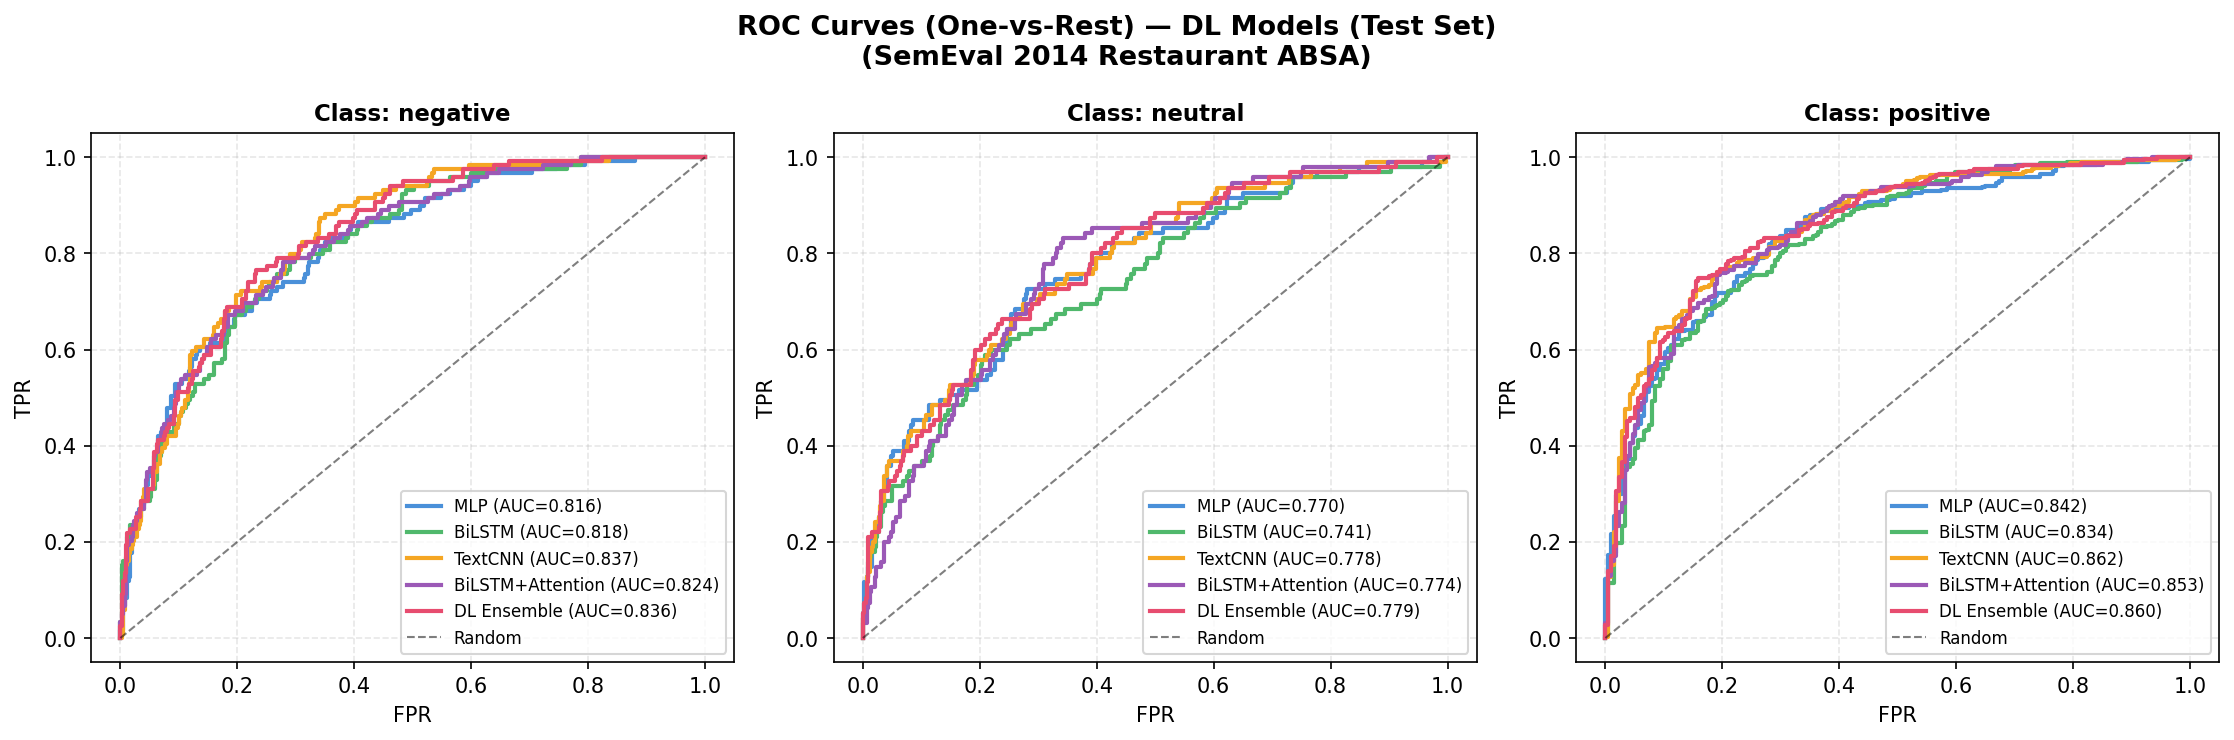
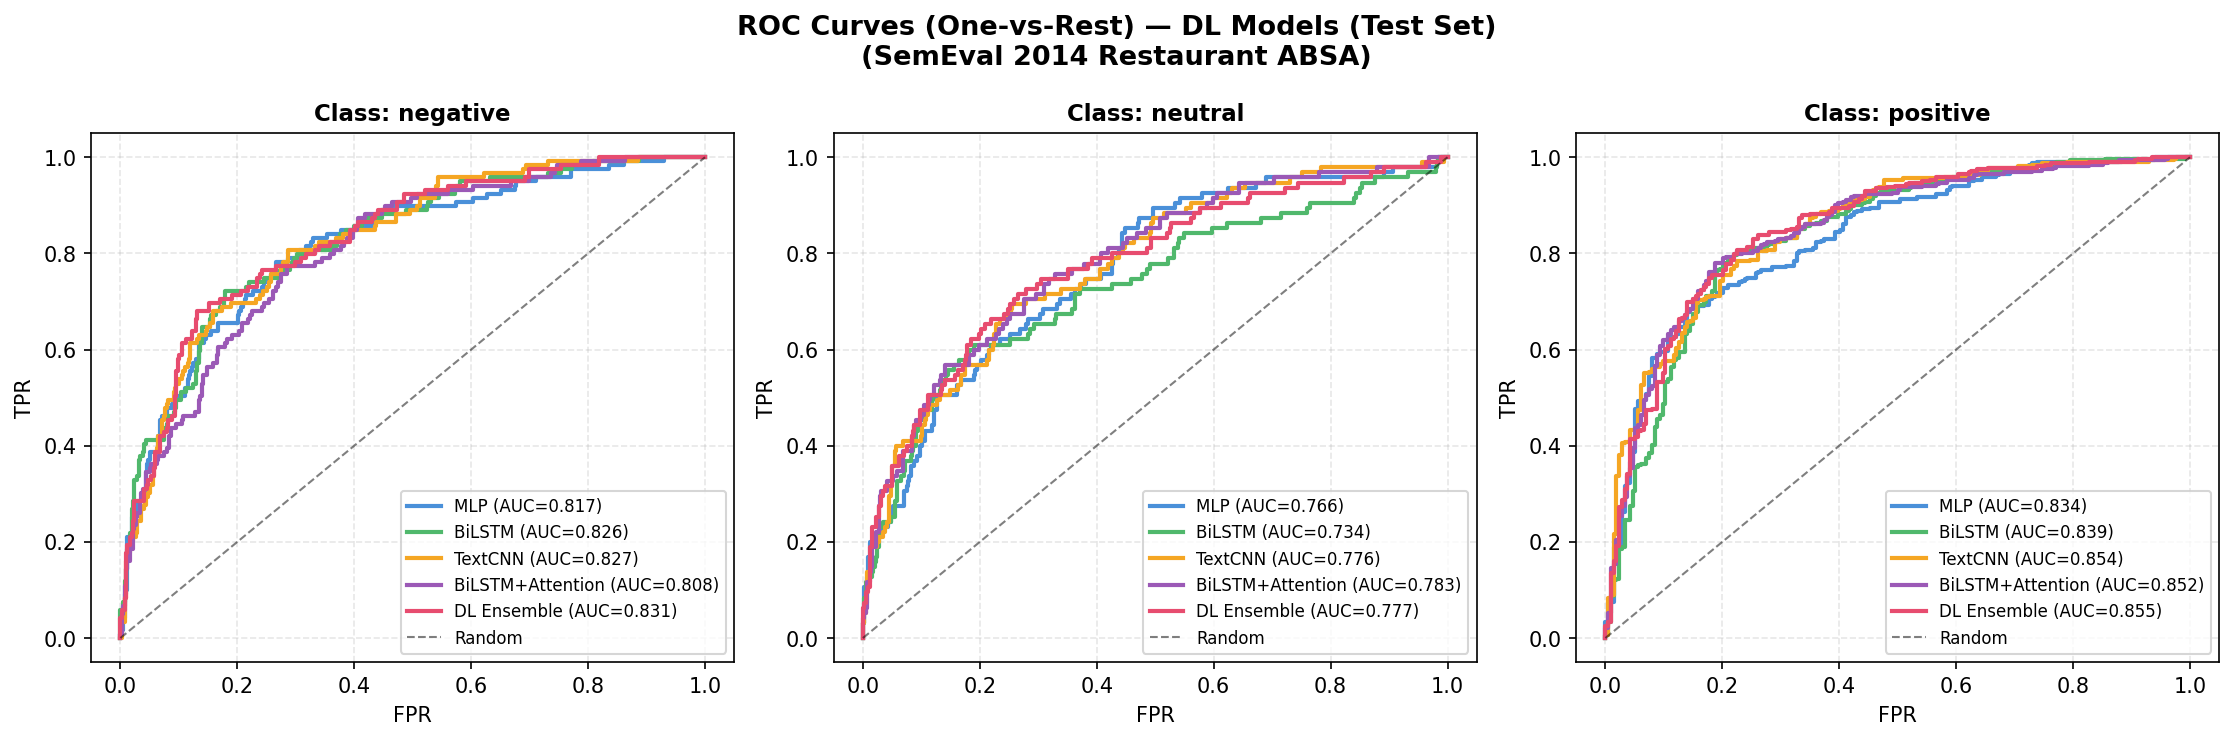
feat:fix sth

diff --git a/Tuan1/bai1/SemEval2014Restaurant.py b/Tuan1/bai1/SemEval2014Restaurant.py
@@ -21,7 +21,7 @@ import matplotlib.pyplot as plt
 import seaborn as sns
 
 from sklearn.feature_extraction.text import TfidfVectorizer
-from sklearn.preprocessing import LabelEncoder, label_binarize
+from sklearn.preprocessing import LabelEncoder, label_binarize, MinMaxScaler
 from sklearn.metrics import (
     accuracy_score, precision_score, recall_score, f1_score,
     roc_auc_score, roc_curve, auc,
@@ -126,29 +126,86 @@ plt.close()
 print("\n[OK] Da luu bieu do phan bo nhan → results/bai1/label_distribution.png")
 
 # =============================================================================
-# 3. TRÍCH XUẤT ĐẶC TRƯNG (TF-IDF)
+# 3. TRÍCH XUẤT ĐẶC TRƯNG (TF-IDF + SENTIMENT LEXICON — CÙNG INPUT VỚI BÀI 2)
 # =============================================================================
 print("\n" + "=" * 70)
-print("3. TRICH XUAT DAC TRUNG (TF-IDF)")
+print("3. TRICH XUAT DAC TRUNG (TF-IDF + LEXICON - CUNG INPUT VOI BAI 2)")
 print("=" * 70)
 
+# ── 3a. TF-IDF (Unigram + Bigram, 8000 features giống bài 2) ─────────────────
 tfidf = TfidfVectorizer(
-    max_features=10000,
+    max_features=8000,
     ngram_range=(1, 2),      # Unigram + Bigram
     min_df=2,
     max_df=0.95,
     sublinear_tf=True
 )
 
-# fit CHI tren Train, transform ca 3 tap
-X_train_tfidf = tfidf.fit_transform(X_train_raw)
-X_val_tfidf   = tfidf.transform(X_val_raw)
-X_test_tfidf  = tfidf.transform(X_test_raw)
+X_train_tfidf = tfidf.fit_transform(X_train_raw).toarray().astype(np.float32)
+X_val_tfidf   = tfidf.transform(X_val_raw).toarray().astype(np.float32)
+X_test_tfidf  = tfidf.transform(X_test_raw).toarray().astype(np.float32)
 
-print(f"So features TF-IDF : {X_train_tfidf.shape[1]}")
-print(f"Shape Train        : {X_train_tfidf.shape}")
-print(f"Shape Validation   : {X_val_tfidf.shape}")
-print(f"Shape Test         : {X_test_tfidf.shape}")
+print(f"  [3a] TF-IDF features   : {X_train_tfidf.shape[1]}")
+
+# ── 3b. Sentiment Lexicon Features (hand-crafted, giống bài 2) ───────────────
+POS_WORDS = {
+    'great','good','excellent','amazing','wonderful','fantastic','superb',
+    'perfect','delicious','tasty','fresh','friendly','helpful','nice','love',
+    'loved','best','outstanding','brilliant','enjoyable','pleasure','recommend',
+    'recommended','satisfied','impressive','quality','pleasant','cozy','warm',
+    'comfortable','scrumptious','flavorful','yummy','fabulous','terrific',
+    'exceptional','attentive','generous','affordable','reasonable','worth',
+    'clean','quick','fast','authentic','fresh','tender','juicy','crispy',
+}
+NEG_WORDS = {
+    'bad','terrible','awful','horrible','poor','worst','disgusting','mediocre',
+    'slow','cold','rude','unfriendly','expensive','overpriced','disappointed',
+    'disappointing','bland','tasteless','overcooked','undercooked','noisy',
+    'dirty','greasy','salty','dry','tough','stale','small','tiny','cramped',
+    'waited','wait','long','never','not','no','nothing','wrong','problem',
+    'unfortunately','avoid','horrible','lacking','boring','rushed','ignored',
+    'fake','generic','average','mediocre','inedible','flavorless','soggy',
+}
+NEG_WORD_SET = {'not','no','never','neither','nor','without','lack','lacking'}
+
+def lexicon_features(texts):
+    feats = []
+    for text in texts:
+        words = str(text).lower().split()
+        n = max(len(words), 1)
+        n_pos    = sum(1 for w in words if w in POS_WORDS)
+        n_neg    = sum(1 for w in words if w in NEG_WORDS)
+        n_negate = sum(1 for w in words if w in NEG_WORD_SET)
+        feats.append([
+            n_pos, n_neg, n_negate,
+            n_pos / n, n_neg / n,
+            (n_pos - n_neg) / n,    # net sentiment score
+            n_negate / n,           # negation density
+            n,                      # doc length
+        ])
+    return np.array(feats, dtype=np.float32)
+
+X_train_lex = lexicon_features(X_train_raw)
+X_val_lex   = lexicon_features(X_val_raw)
+X_test_lex  = lexicon_features(X_test_raw)
+
+# Scaler giúp features không âm, tương thích hoàn toàn với MultinomialNB
+scaler = MinMaxScaler()
+X_train_lex_s = scaler.fit_transform(X_train_lex)
+X_val_lex_s   = scaler.transform(X_val_lex)
+X_test_lex_s  = scaler.transform(X_test_lex)
+
+print(f"  [3b] Lexicon features  : {X_train_lex_s.shape[1]}")
+
+# ── 3c. Kết hợp TF-IDF + Lexicon (Input đồng nhất với MLP của Bài 2) ──────────
+X_train_comb = np.hstack([X_train_tfidf, X_train_lex_s])
+X_val_comb   = np.hstack([X_val_tfidf,   X_val_lex_s])
+X_test_comb  = np.hstack([X_test_tfidf,  X_test_lex_s])
+
+print(f"  [3c] Tong features     : {X_train_comb.shape[1]}")
+print(f"       Shape Train       : {X_train_comb.shape}")
+print(f"       Shape Validation  : {X_val_comb.shape}")
+print(f"       Shape Test        : {X_test_comb.shape}")
 
 # =============================================================================
 # 4. XÂY DỰNG VÀ HUẤN LUYỆN CÁC MÔ HÌNH
@@ -177,16 +234,16 @@ results = {}
 
 for name, model in models.items():
     print(f"\n--- Training: {name} ---")
-    model.fit(X_train_tfidf, y_train)
+    model.fit(X_train_comb, y_train)
 
     # ── Đánh giá trên Validation
-    y_val_pred = model.predict(X_val_tfidf)
+    y_val_pred = model.predict(X_val_comb)
     val_acc = accuracy_score(y_val, y_val_pred)
     val_f1  = f1_score(y_val, y_val_pred, average='macro', zero_division=0)
     print(f"  [VAL]  Accuracy={val_acc:.4f}  F1(macro)={val_f1:.4f}")
 
     # ── Đánh giá trên Test
-    y_pred = model.predict(X_test_tfidf)
+    y_pred = model.predict(X_test_comb)
 
     acc       = accuracy_score(y_test, y_pred)
     prec_macro = precision_score(y_test, y_pred, average='macro', zero_division=0)
@@ -199,9 +256,9 @@ for name, model in models.items():
     # Tính ROC-AUC
     y_test_bin = label_binarize(y_test, classes=range(n_classes))
     if hasattr(model, 'predict_proba'):
-        y_score = model.predict_proba(X_test_tfidf)
+        y_score = model.predict_proba(X_test_comb)
     elif hasattr(model, 'decision_function'):
-        y_score = model.decision_function(X_test_tfidf)
+        y_score = model.decision_function(X_test_comb)
     else:
         y_score = label_binarize(y_pred, classes=range(n_classes))
 
